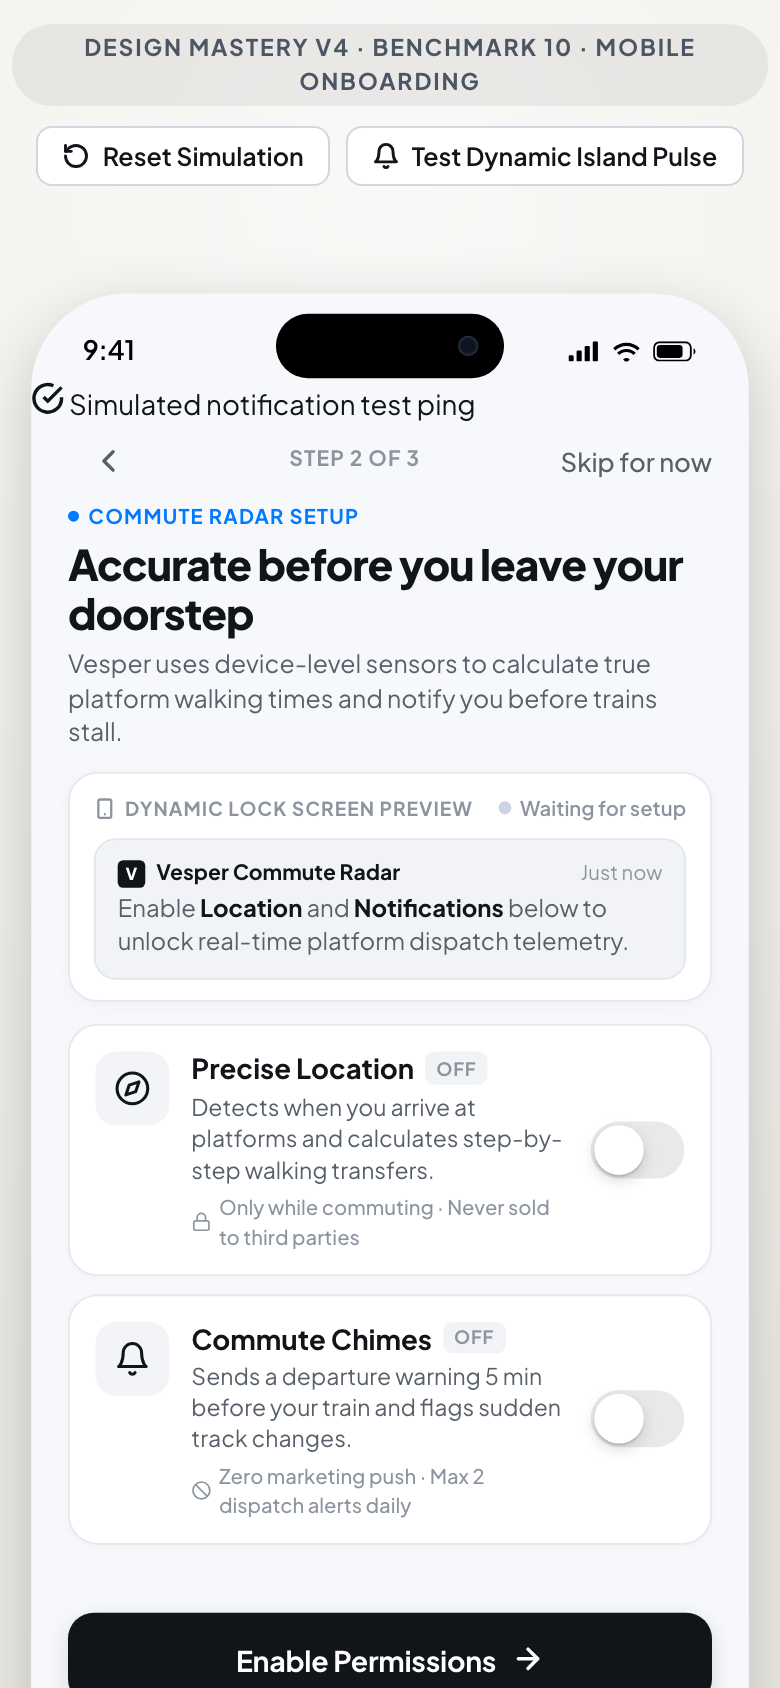
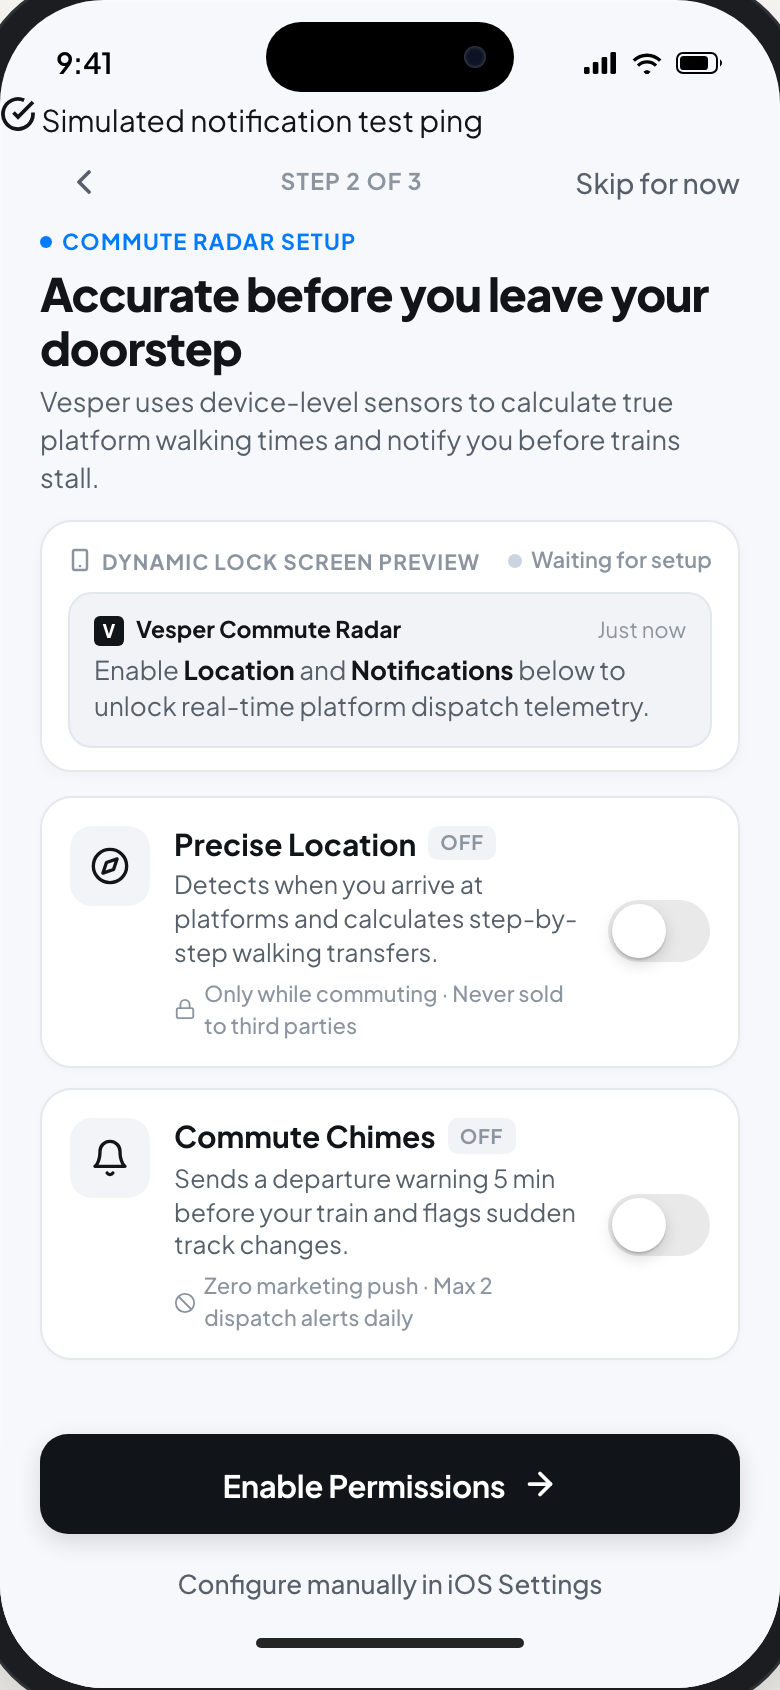
Fix showcase screenshots: crop out benchmark-harness chrome, relabel mismatched coffee sample
Mobile onboarding and poster screenshots were capturing the benchmark
viewer's debug controls (reset/zoom/print toolbars) instead of just the
device/poster artifact. Re-shot both against their actual content elements.
Also relabeled the "coffee" branding sample, whose content is actually a
kids-edtech brand system, not coffee.

diff --git a/README.md b/README.md
@@ -41,9 +41,9 @@ via Playwright — real HTML/CSS built by this skill, not mockups.
 
 <img src="showcase/mobile-onboarding.png" alt="Mobile onboarding" width="360">
 
-### Brand identity (coffee)
+### Brand identity (kids edtech)
 
-![Branding coffee](showcase/branding-coffee.png)
+![Branding kids edtech](showcase/branding-coffee.png)
 
 ### Poster (concert)
 
